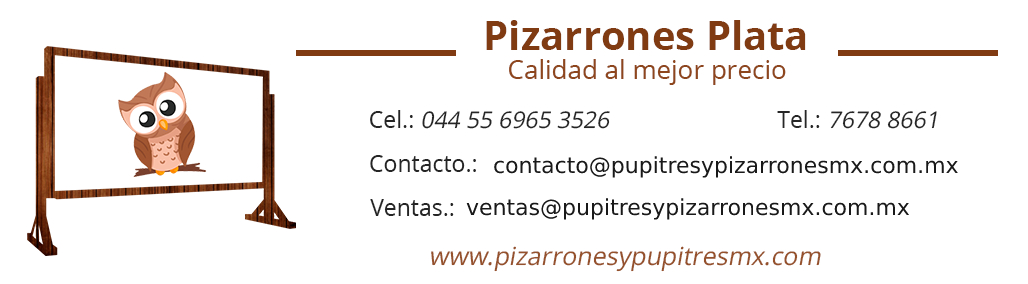
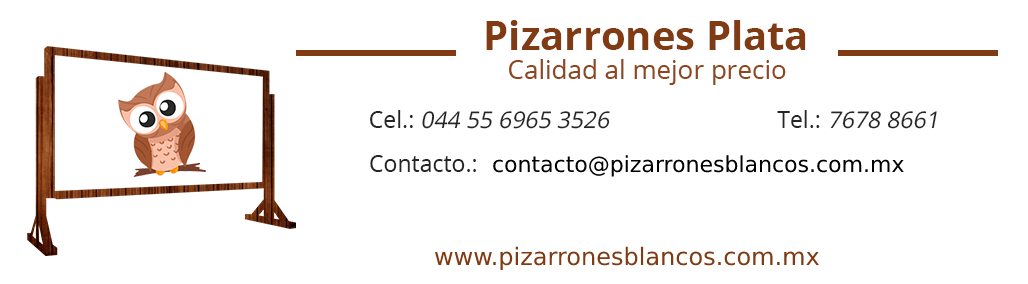
Se modifica el correo en la firma y se agrega numeral para montos

Changed region(s): [[0.3424, 0.7042, 0.9027, 0.7887], [0.4047, 0.8732, 0.8093, 0.9577], [0.4669, 0.5352, 0.9339, 0.6197]]

diff --git a/js/numeral.min.js b/js/numeral.min.js
@@ -1,0 +1,8 @@
+/*! @preserve
+ * numeral.js
+ * version : 2.0.6
+ * author : Adam Draper
+ * license : MIT
+ * http://adamwdraper.github.com/Numeral-js/
+ */
+!function(a,b){"function"==typeof define&&define.amd?define(b):"object"==typeof module&&module.exports?module.exports=b():a.numeral=b()}(this,function(){function a(a,b){this._input=a,this._value=b}var b,c,d="2.0.6",e={},f={},g={currentLocale:"en",zeroFormat:null,nullFormat:null,defaultFormat:"0,0",scalePercentBy100:!0},h={currentLocale:g.currentLocale,zeroFormat:g.zeroFormat,nullFormat:g.nullFormat,defaultFormat:g.defaultFormat,scalePercentBy100:g.scalePercentBy100};return b=function(d){var f,g,i,j;if(b.isNumeral(d))f=d.value();else if(0===d||"undefined"==typeof d)f=0;else if(null===d||c.isNaN(d))f=null;else if("string"==typeof d)if(h.zeroFormat&&d===h.zeroFormat)f=0;else if(h.nullFormat&&d===h.nullFormat||!d.replace(/[^0-9]+/g,"").length)f=null;else{for(g in e)if(j="function"==typeof e[g].regexps.unformat?e[g].regexps.unformat():e[g].regexps.unformat,j&&d.match(j)){i=e[g].unformat;break}i=i||b._.stringToNumber,f=i(d)}else f=Number(d)||null;return new a(d,f)},b.version=d,b.isNumeral=function(b){return b instanceof a},b._=c={numberToFormat:function(a,c,d){var e,g,h,i,j,k,l,m=f[b.options.currentLocale],n=!1,o=!1,p=0,q="",r=1e12,s=1e9,t=1e6,u=1e3,v="",w=!1;if(a=a||0,g=Math.abs(a),b._.includes(c,"(")?(n=!0,c=c.replace(/[\(|\)]/g,"")):(b._.includes(c,"+")||b._.includes(c,"-"))&&(j=b._.includes(c,"+")?c.indexOf("+"):0>a?c.indexOf("-"):-1,c=c.replace(/[\+|\-]/g,"")),b._.includes(c,"a")&&(e=c.match(/a(k|m|b|t)?/),e=e?e[1]:!1,b._.includes(c," a")&&(q=" "),c=c.replace(new RegExp(q+"a[kmbt]?"),""),g>=r&&!e||"t"===e?(q+=m.abbreviations.trillion,a/=r):r>g&&g>=s&&!e||"b"===e?(q+=m.abbreviations.billion,a/=s):s>g&&g>=t&&!e||"m"===e?(q+=m.abbreviations.million,a/=t):(t>g&&g>=u&&!e||"k"===e)&&(q+=m.abbreviations.thousand,a/=u)),b._.includes(c,"[.]")&&(o=!0,c=c.replace("[.]",".")),h=a.toString().split(".")[0],i=c.split(".")[1],k=c.indexOf(","),p=(c.split(".")[0].split(",")[0].match(/0/g)||[]).length,i?(b._.includes(i,"[")?(i=i.replace("]",""),i=i.split("["),v=b._.toFixed(a,i[0].length+i[1].length,d,i[1].length)):v=b._.toFixed(a,i.length,d),h=v.split(".")[0],v=b._.includes(v,".")?m.delimiters.decimal+v.split(".")[1]:"",o&&0===Number(v.slice(1))&&(v="")):h=b._.toFixed(a,0,d),q&&!e&&Number(h)>=1e3&&q!==m.abbreviations.trillion)switch(h=String(Number(h)/1e3),q){case m.abbreviations.thousand:q=m.abbreviations.million;break;case m.abbreviations.million:q=m.abbreviations.billion;break;case m.abbreviations.billion:q=m.abbreviations.trillion}if(b._.includes(h,"-")&&(h=h.slice(1),w=!0),h.length<p)for(var x=p-h.length;x>0;x--)h="0"+h;return k>-1&&(h=h.toString().replace(/(\d)(?=(\d{3})+(?!\d))/g,"$1"+m.delimiters.thousands)),0===c.indexOf(".")&&(h=""),l=h+v+(q?q:""),n?l=(n&&w?"(":"")+l+(n&&w?")":""):j>=0?l=0===j?(w?"-":"+")+l:l+(w?"-":"+"):w&&(l="-"+l),l},stringToNumber:function(a){var b,c,d,e=f[h.currentLocale],g=a,i={thousand:3,million:6,billion:9,trillion:12};if(h.zeroFormat&&a===h.zeroFormat)c=0;else if(h.nullFormat&&a===h.nullFormat||!a.replace(/[^0-9]+/g,"").length)c=null;else{c=1,"."!==e.delimiters.decimal&&(a=a.replace(/\./g,"").replace(e.delimiters.decimal,"."));for(b in i)if(d=new RegExp("[^a-zA-Z]"+e.abbreviations[b]+"(?:\\)|(\\"+e.currency.symbol+")?(?:\\))?)?$"),g.match(d)){c*=Math.pow(10,i[b]);break}c*=(a.split("-").length+Math.min(a.split("(").length-1,a.split(")").length-1))%2?1:-1,a=a.replace(/[^0-9\.]+/g,""),c*=Number(a)}return c},isNaN:function(a){return"number"==typeof a&&isNaN(a)},includes:function(a,b){return-1!==a.indexOf(b)},insert:function(a,b,c){return a.slice(0,c)+b+a.slice(c)},reduce:function(a,b){if(null===this)throw new TypeError("Array.prototype.reduce called on null or undefined");if("function"!=typeof b)throw new TypeError(b+" is not a function");var c,d=Object(a),e=d.length>>>0,f=0;if(3===arguments.length)c=arguments[2];else{for(;e>f&&!(f in d);)f++;if(f>=e)throw new TypeError("Reduce of empty array with no initial value");c=d[f++]}for(;e>f;f++)f in d&&(c=b(c,d[f],f,d));return c},multiplier:function(a){var b=a.toString().split(".");return b.length<2?1:Math.pow(10,b[1].length)},correctionFactor:function(){var a=Array.prototype.slice.call(arguments);return a.reduce(function(a,b){var d=c.multiplier(b);return a>d?a:d},1)},toFixed:function(a,b,c,d){var e,f,g,h,i=a.toString().split("."),j=b-(d||0);return e=2===i.length?Math.min(Math.max(i[1].length,j),b):j,g=Math.pow(10,e),h=(c(a+"e+"+e)/g).toFixed(e),d>b-e&&(f=new RegExp("\\.?0{1,"+(d-(b-e))+"}$"),h=h.replace(f,"")),h}},b.options=h,b.formats=e,b.locales=f,b.locale=function(a){return a&&(h.currentLocale=a.toLowerCase()),h.currentLocale},b.localeData=function(a){if(!a)return f[h.currentLocale];if(a=a.toLowerCase(),!f[a])throw new Error("Unknown locale : "+a);return f[a]},b.reset=function(){for(var a in g)h[a]=g[a]},b.zeroFormat=function(a){h.zeroFormat="string"==typeof a?a:null},b.nullFormat=function(a){h.nullFormat="string"==typeof a?a:null},b.defaultFormat=function(a){h.defaultFormat="string"==typeof a?a:"0.0"},b.register=function(a,b,c){if(b=b.toLowerCase(),this[a+"s"][b])throw new TypeError(b+" "+a+" already registered.");return this[a+"s"][b]=c,c},b.validate=function(a,c){var d,e,f,g,h,i,j,k;if("string"!=typeof a&&(a+="",console.warn&&console.warn("Numeral.js: Value is not string. It has been co-erced to: ",a)),a=a.trim(),a.match(/^\d+$/))return!0;if(""===a)return!1;try{j=b.localeData(c)}catch(l){j=b.localeData(b.locale())}return f=j.currency.symbol,h=j.abbreviations,d=j.delimiters.decimal,e="."===j.delimiters.thousands?"\\.":j.delimiters.thousands,k=a.match(/^[^\d]+/),null!==k&&(a=a.substr(1),k[0]!==f)?!1:(k=a.match(/[^\d]+$/),null!==k&&(a=a.slice(0,-1),k[0]!==h.thousand&&k[0]!==h.million&&k[0]!==h.billion&&k[0]!==h.trillion)?!1:(i=new RegExp(e+"{2}"),a.match(/[^\d.,]/g)?!1:(g=a.split(d),g.length>2?!1:g.length<2?!!g[0].match(/^\d+.*\d$/)&&!g[0].match(i):1===g[0].length?!!g[0].match(/^\d+$/)&&!g[0].match(i)&&!!g[1].match(/^\d+$/):!!g[0].match(/^\d+.*\d$/)&&!g[0].match(i)&&!!g[1].match(/^\d+$/))))},b.fn=a.prototype={clone:function(){return b(this)},format:function(a,c){var d,f,g,i=this._value,j=a||h.defaultFormat;if(c=c||Math.round,0===i&&null!==h.zeroFormat)f=h.zeroFormat;else if(null===i&&null!==h.nullFormat)f=h.nullFormat;else{for(d in e)if(j.match(e[d].regexps.format)){g=e[d].format;break}g=g||b._.numberToFormat,f=g(i,j,c)}return f},value:function(){return this._value},input:function(){return this._input},set:function(a){return this._value=Number(a),this},add:function(a){function b(a,b,c,e){return a+Math.round(d*b)}var d=c.correctionFactor.call(null,this._value,a);return this._value=c.reduce([this._value,a],b,0)/d,this},subtract:function(a){function b(a,b,c,e){return a-Math.round(d*b)}var d=c.correctionFactor.call(null,this._value,a);return this._value=c.reduce([a],b,Math.round(this._value*d))/d,this},multiply:function(a){function b(a,b,d,e){var f=c.correctionFactor(a,b);return Math.round(a*f)*Math.round(b*f)/Math.round(f*f)}return this._value=c.reduce([this._value,a],b,1),this},divide:function(a){function b(a,b,d,e){var f=c.correctionFactor(a,b);return Math.round(a*f)/Math.round(b*f)}return this._value=c.reduce([this._value,a],b),this},difference:function(a){return Math.abs(b(this._value).subtract(a).value())}},b.register("locale","en",{delimiters:{thousands:",",decimal:"."},abbreviations:{thousand:"k",million:"m",billion:"b",trillion:"t"},ordinal:function(a){var b=a%10;return 1===~~(a%100/10)?"th":1===b?"st":2===b?"nd":3===b?"rd":"th"},currency:{symbol:"$"}}),function(){b.register("format","bps",{regexps:{format:/(BPS)/,unformat:/(BPS)/},format:function(a,c,d){var e,f=b._.includes(c," BPS")?" ":"";return a=1e4*a,c=c.replace(/\s?BPS/,""),e=b._.numberToFormat(a,c,d),b._.includes(e,")")?(e=e.split(""),e.splice(-1,0,f+"BPS"),e=e.join("")):e=e+f+"BPS",e},unformat:function(a){return+(1e-4*b._.stringToNumber(a)).toFixed(15)}})}(),function(){var a={base:1e3,suffixes:["B","KB","MB","GB","TB","PB","EB","ZB","YB"]},c={base:1024,suffixes:["B","KiB","MiB","GiB","TiB","PiB","EiB","ZiB","YiB"]},d=a.suffixes.concat(c.suffixes.filter(function(b){return a.suffixes.indexOf(b)<0})),e=d.join("|");e="("+e.replace("B","B(?!PS)")+")",b.register("format","bytes",{regexps:{format:/([0\s]i?b)/,unformat:new RegExp(e)},format:function(d,e,f){var g,h,i,j,k=b._.includes(e,"ib")?c:a,l=b._.includes(e," b")||b._.includes(e," ib")?" ":"";for(e=e.replace(/\s?i?b/,""),h=0;h<=k.suffixes.length;h++)if(i=Math.pow(k.base,h),j=Math.pow(k.base,h+1),null===d||0===d||d>=i&&j>d){l+=k.suffixes[h],i>0&&(d/=i);break}return g=b._.numberToFormat(d,e,f),g+l},unformat:function(d){var e,f,g=b._.stringToNumber(d);if(g){for(e=a.suffixes.length-1;e>=0;e--){if(b._.includes(d,a.suffixes[e])){f=Math.pow(a.base,e);break}if(b._.includes(d,c.suffixes[e])){f=Math.pow(c.base,e);break}}g*=f||1}return g}})}(),function(){b.register("format","currency",{regexps:{format:/(\$)/},format:function(a,c,d){var e,f,g,h=b.locales[b.options.currentLocale],i={before:c.match(/^([\+|\-|\(|\s|\$]*)/)[0],after:c.match(/([\+|\-|\)|\s|\$]*)$/)[0]};for(c=c.replace(/\s?\$\s?/,""),e=b._.numberToFormat(a,c,d),a>=0?(i.before=i.before.replace(/[\-\(]/,""),i.after=i.after.replace(/[\-\)]/,"")):0>a&&!b._.includes(i.before,"-")&&!b._.includes(i.before,"(")&&(i.before="-"+i.before),g=0;g<i.before.length;g++)switch(f=i.before[g]){case"$":e=b._.insert(e,h.currency.symbol,g);break;case" ":e=b._.insert(e," ",g+h.currency.symbol.length-1)}for(g=i.after.length-1;g>=0;g--)switch(f=i.after[g]){case"$":e=g===i.after.length-1?e+h.currency.symbol:b._.insert(e,h.currency.symbol,-(i.after.length-(1+g)));break;case" ":e=g===i.after.length-1?e+" ":b._.insert(e," ",-(i.after.length-(1+g)+h.currency.symbol.length-1))}return e}})}(),function(){b.register("format","exponential",{regexps:{format:/(e\+|e-)/,unformat:/(e\+|e-)/},format:function(a,c,d){var e,f="number"!=typeof a||b._.isNaN(a)?"0e+0":a.toExponential(),g=f.split("e");return c=c.replace(/e[\+|\-]{1}0/,""),e=b._.numberToFormat(Number(g[0]),c,d),e+"e"+g[1]},unformat:function(a){function c(a,c,d,e){var f=b._.correctionFactor(a,c),g=a*f*(c*f)/(f*f);return g}var d=b._.includes(a,"e+")?a.split("e+"):a.split("e-"),e=Number(d[0]),f=Number(d[1]);return f=b._.includes(a,"e-")?f*=-1:f,b._.reduce([e,Math.pow(10,f)],c,1)}})}(),function(){b.register("format","ordinal",{regexps:{format:/(o)/},format:function(a,c,d){var e,f=b.locales[b.options.currentLocale],g=b._.includes(c," o")?" ":"";return c=c.replace(/\s?o/,""),g+=f.ordinal(a),e=b._.numberToFormat(a,c,d),e+g}})}(),function(){b.register("format","percentage",{regexps:{format:/(%)/,unformat:/(%)/},format:function(a,c,d){var e,f=b._.includes(c," %")?" ":"";return b.options.scalePercentBy100&&(a=100*a),c=c.replace(/\s?\%/,""),e=b._.numberToFormat(a,c,d),b._.includes(e,")")?(e=e.split(""),e.splice(-1,0,f+"%"),e=e.join("")):e=e+f+"%",e},unformat:function(a){var c=b._.stringToNumber(a);return b.options.scalePercentBy100?.01*c:c}})}(),function(){b.register("format","time",{regexps:{format:/(:)/,unformat:/(:)/},format:function(a,b,c){var d=Math.floor(a/60/60),e=Math.floor((a-60*d*60)/60),f=Math.round(a-60*d*60-60*e);return d+":"+(10>e?"0"+e:e)+":"+(10>f?"0"+f:f)},unformat:function(a){var b=a.split(":"),c=0;return 3===b.length?(c+=60*Number(b[0])*60,c+=60*Number(b[1]),c+=Number(b[2])):2===b.length&&(c+=60*Number(b[0]),c+=Number(b[1])),Number(c)}})}(),b});

diff --git a/js/tableLogic.js b/js/tableLogic.js
@@ -250,8 +250,8 @@ function fillTemplate() {
 		`<tr id="__` + id + `" data-producto_id="__` + id + `">
             <td id="producto_cantidad" contenteditable>` + cantidad + `</td>
             <td id="producto_descripcion" contenteditable>` + producto + `</td>
-            <td id="producto_precio" contenteditable>$` + precio + `</td>
-            <td id="producto_importe">$` + importe + `</td>
+            <td id="producto_precio" contenteditable>` + numeral(precio).format('$0,0.00') + `</td>
+            <td id="producto_importe">` + numeral(importe).format('$0,0.00') + `</td>
             <td id="producto_tools">
                 <button id='btnEliminar' data-id_eliminar="` + id + `" title='Eliminar' class="btnTools">
                     <img src='img/Eliminar.png'>
@@ -301,9 +301,9 @@ function totalAPagar() {
 }
 
 function fillTotalValues() {
-	$("#subtotal").text("$" + subtotal());
-	$("#iva").text("$" + iva());
-	$("#total").text("$" + totalAPagar());
+	$("#subtotal").text((numeral(subtotal()).format('$0,0.00')));
+	$("#iva").text((numeral(iva()).format('$0,0.00')));
+	$("#total").text((numeral(totalAPagar()).format('$0,0.00')));
 }
 
 function getDate() {
@@ -437,7 +437,14 @@ $("#btnGenerarPDF").click(function() {
 	let data = [];
 
 	for (let i = 0; i < productos.length; i++) {
-		data.push(productos[i]);
+		let product = [
+			productos[i][0],
+			productos[i][1],
+			numeral(productos[i][2]).format('$0,0.00'),
+			numeral(productos[i][3]).format('$0,0.00'),
+		];
+
+		data.push(product);
 	}
 
 	pdf.autoTable(columns, data, {
@@ -475,15 +482,15 @@ $("#btnGenerarPDF").click(function() {
 			[
 				{ content: "", colSpan: 2, rowSpan: 3 },
 				{ content: "Subtotal", styles: { halign: "right" } },
-				{ content: "$" + subtotal(), styles: { halign: "left" } }
+				{ content: (numeral(subtotal()).format('$0,0.00')), styles: { halign: "right" } }
 			],
 			[
 				{ content: "I.V.A 16%", styles: { halign: "right" } },
-				{ content: "$" + iva(), styles: { halign: "left" } }
+				{ content: (numeral(iva()).format('$0,0.00')), styles: { halign: "right" } }
 			],
 			[
 				{ content: "TOTAL", styles: { halign: "right" } },
-				{ content: "$" + totalAPagar(), styles: { halign: "left" } }
+				{ content: (numeral(totalAPagar()).format('$0,0.00')), styles: { halign: "right" } }
 			]
 		]
 	});

diff --git a/index.php b/index.php
@@ -177,6 +177,7 @@
     <script src="js/jquery-3.4.1.min.js"></script>
     <script src="js/jspdf.min.js"></script>
     <script src="js/jspdf.plugin.autotable.min.js"></script>
+    <script src="js/numeral.min.js"></script>
     <script src="js/tableLogic.js"></script>
     <script>
         var catalogo = [];
